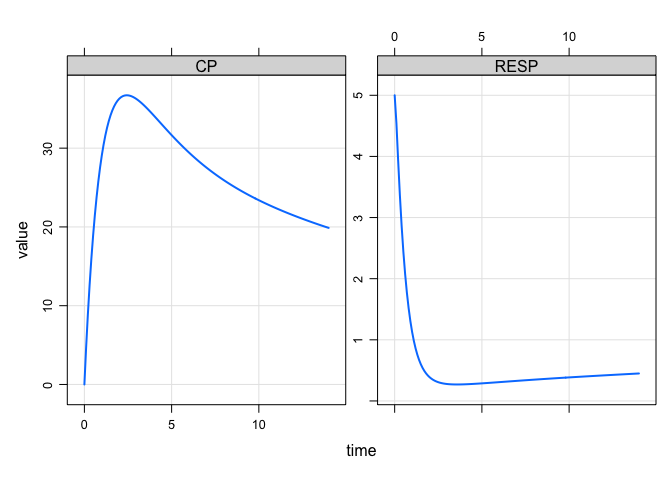
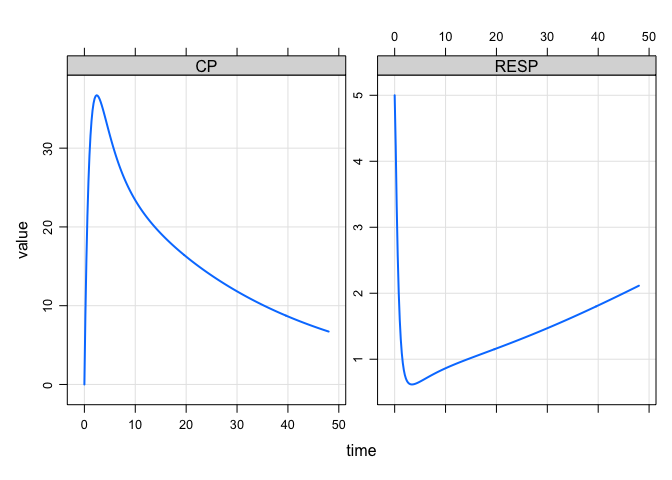
tweak irm example

diff --git a/application/local-sa.md b/application/local-sa.md
@@ -1,7 +1,7 @@
 Local sensitivity analysis using mrgsim.sa
 ================
 Kyle Baron
-2021-12-04 11:33:00
+2021-12-04 11:43:41
 
 -   [Introduction](#introduction)
 -   [Tools](#tools)
@@ -113,7 +113,7 @@ mrgsim.sa:::.lsa_fun
     . {
     .     mrgsim(mod, ...)
     . }
-    . <bytecode: 0x7fb6d17f9b58>
+    . <bytecode: 0x7fc0830328d0>
     . <environment: namespace:mrgsim.sa>
 
 You can create your own `fun`ction and then pass objects to that
@@ -165,7 +165,8 @@ For example, we can look at multiple outputs from an indirect response
 model
 
 ``` r
-mod <- modlib("irm1", delta = 0.1, end = 14, rtol = 1e-10) 
+mod <- modlib("irm1", delta = 0.2, end = 48, hmax = 0.1) 
+mod <- param(mod,  IC50 = 5)
 ```
 
 ``` r
@@ -176,7 +177,7 @@ param(mod)
     .  Model parameters (N=13):
     .  name value . name value
     .  CL   1     | KOUT 2    
-    .  IC50 2     | n    1    
+    .  IC50 5     | n    1    
     .  IMAX 1     | Q    2    
     .  KA   1     | V2   20   
     .  KA2  1     | V3   10   
